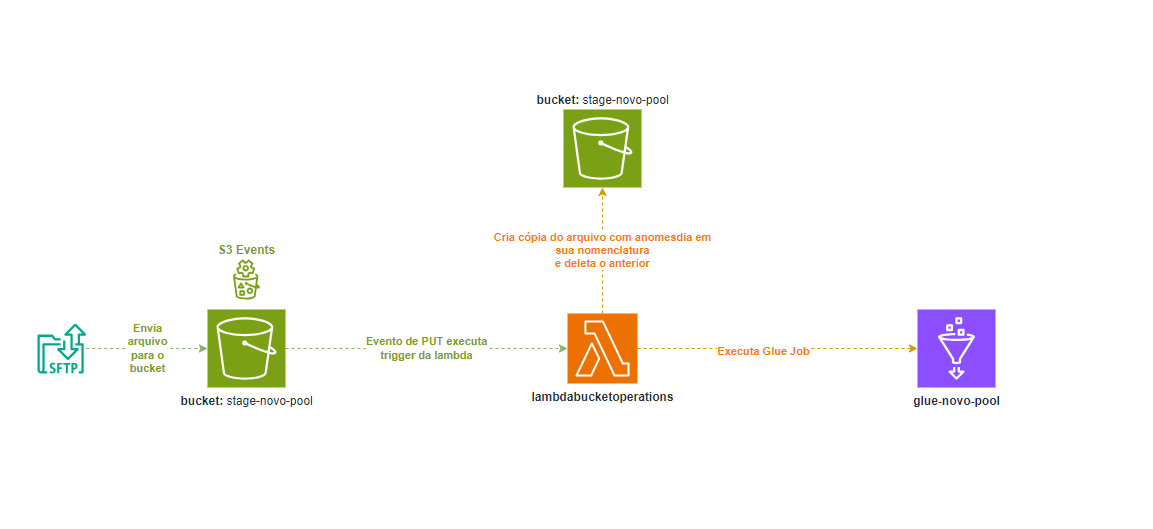
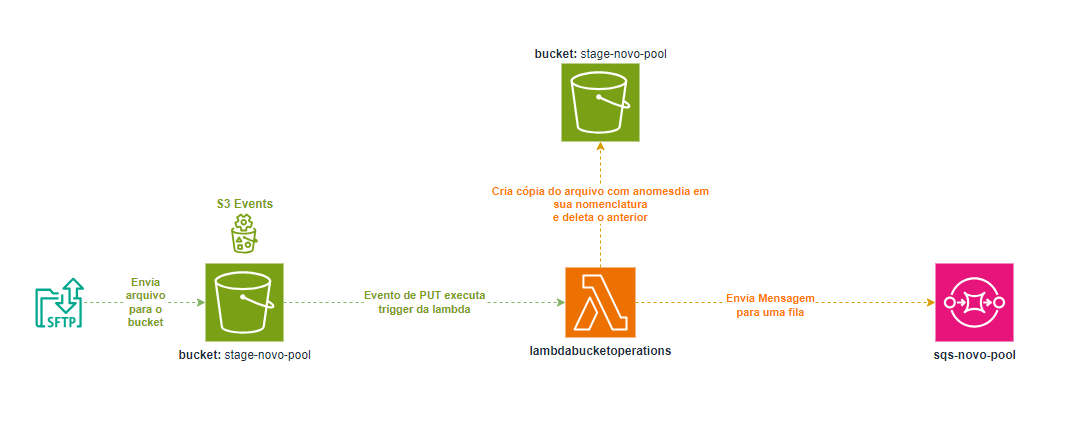
refactor: :fire: implementing sqs service

diff --git a/src/lambdabucketoperations/processor/file_manager_processor.py b/src/lambdabucketoperations/processor/file_manager_processor.py
@@ -3,7 +3,7 @@ from datetime import datetime
 
 from lambdabucketoperations.model.config_variables import ConfigVariables
 from lambdabucketoperations.services.s3_service import S3Service
-from lambdabucketoperations.services.glue_service import GlueService
+from lambdabucketoperations.services.sqs_service import SqsService
 
 
 class FileManagerProcessor:
@@ -12,9 +12,11 @@ class FileManagerProcessor:
         self._s3_event = self._event.get("s3")
         self._config_variables = config_variables
         self._s3_service = S3Service()
-        self._glue_service = GlueService(self._config_variables)
+        self._sqs_service = SqsService(
+            self._config_variables.queue_url_sqs
+        )
 
-    def process(self):
+    def process(self) -> dict:
         event_object_from_s3 = self._s3_event.get("object")
         bucket_name = self._s3_event.get("bucket").get("name")
         dest_key = self._build_dest_key_to_copy_files(
@@ -40,15 +42,17 @@ class FileManagerProcessor:
               f"{event_object_from_s3.get('key')}"
               )
 
-        response = self._glue_service.run_job(
-            {
-                "--FILE_PATH": self._build_file_path_full(
-                    bucket_name, dest_key
-                ),
-            }
-        )
+        payload_to_queue = {
+            "file_path": self._build_file_path_full(
+                bucket_name, dest_key
+            ),
+            "scope": "novo-pool",
+            "chapter": "dados"
+        }
 
-        return response
+        response = self._sqs_service.send_message(payload_to_queue)
+
+        return {"status_code": 200, "response": response}
 
     def _build_dest_key_to_copy_files(
             self, event_object_s3: dict

diff --git a/src/lambdabucketoperations/services/sqs_service.py b/src/lambdabucketoperations/services/sqs_service.py
@@ -1,0 +1,37 @@
+from typing import Dict, Any
+from botocore.exceptions import ClientError
+
+from lambdabucketoperations.services.aws import AwsService
+
+
+class SqsService:
+    def __init__(self, queue_url: str):
+        self.sqs_client = AwsService.get_client("sqs")
+        self._queue_url = queue_url
+
+    def send_message(self, payload: Dict[str, Any]) -> Dict[str, Any]:
+        """
+        Envia uma mensagem para uma fila SQS.
+
+        :param queue_url: URL da fila SQS
+        :param payload: Dicionário contendo os dados a serem enviados
+        :return: Dict com o status da operação, message_id ou erro
+        """
+        try:
+            response = self.sqs_client.send_message(
+                QueueUrl=self._queue_url,
+                MessageBody=str(payload)  # pode trocar por json.dumps se preferir
+            )
+
+            return {
+                "status": "success",
+                "message_id": response.get("MessageId"),
+                "response": response
+            }
+
+        except ClientError as e:
+            return {
+                "status": "error",
+                "error_message": str(e),
+                "operation": "send_message"
+            }

diff --git a/src/lambdabucketoperations/model/config_variables.py b/src/lambdabucketoperations/model/config_variables.py
@@ -2,6 +2,7 @@ from pydantic import BaseSettings
 
 
 class ConfigVariables(BaseSettings):
-    glue_job_name: str
-    worker_type: str
-    number_of_workers: int
+    glue_job_name: str | None
+    worker_type: str | None
+    number_of_workers: int | None
+    queue_url_sqs: str
